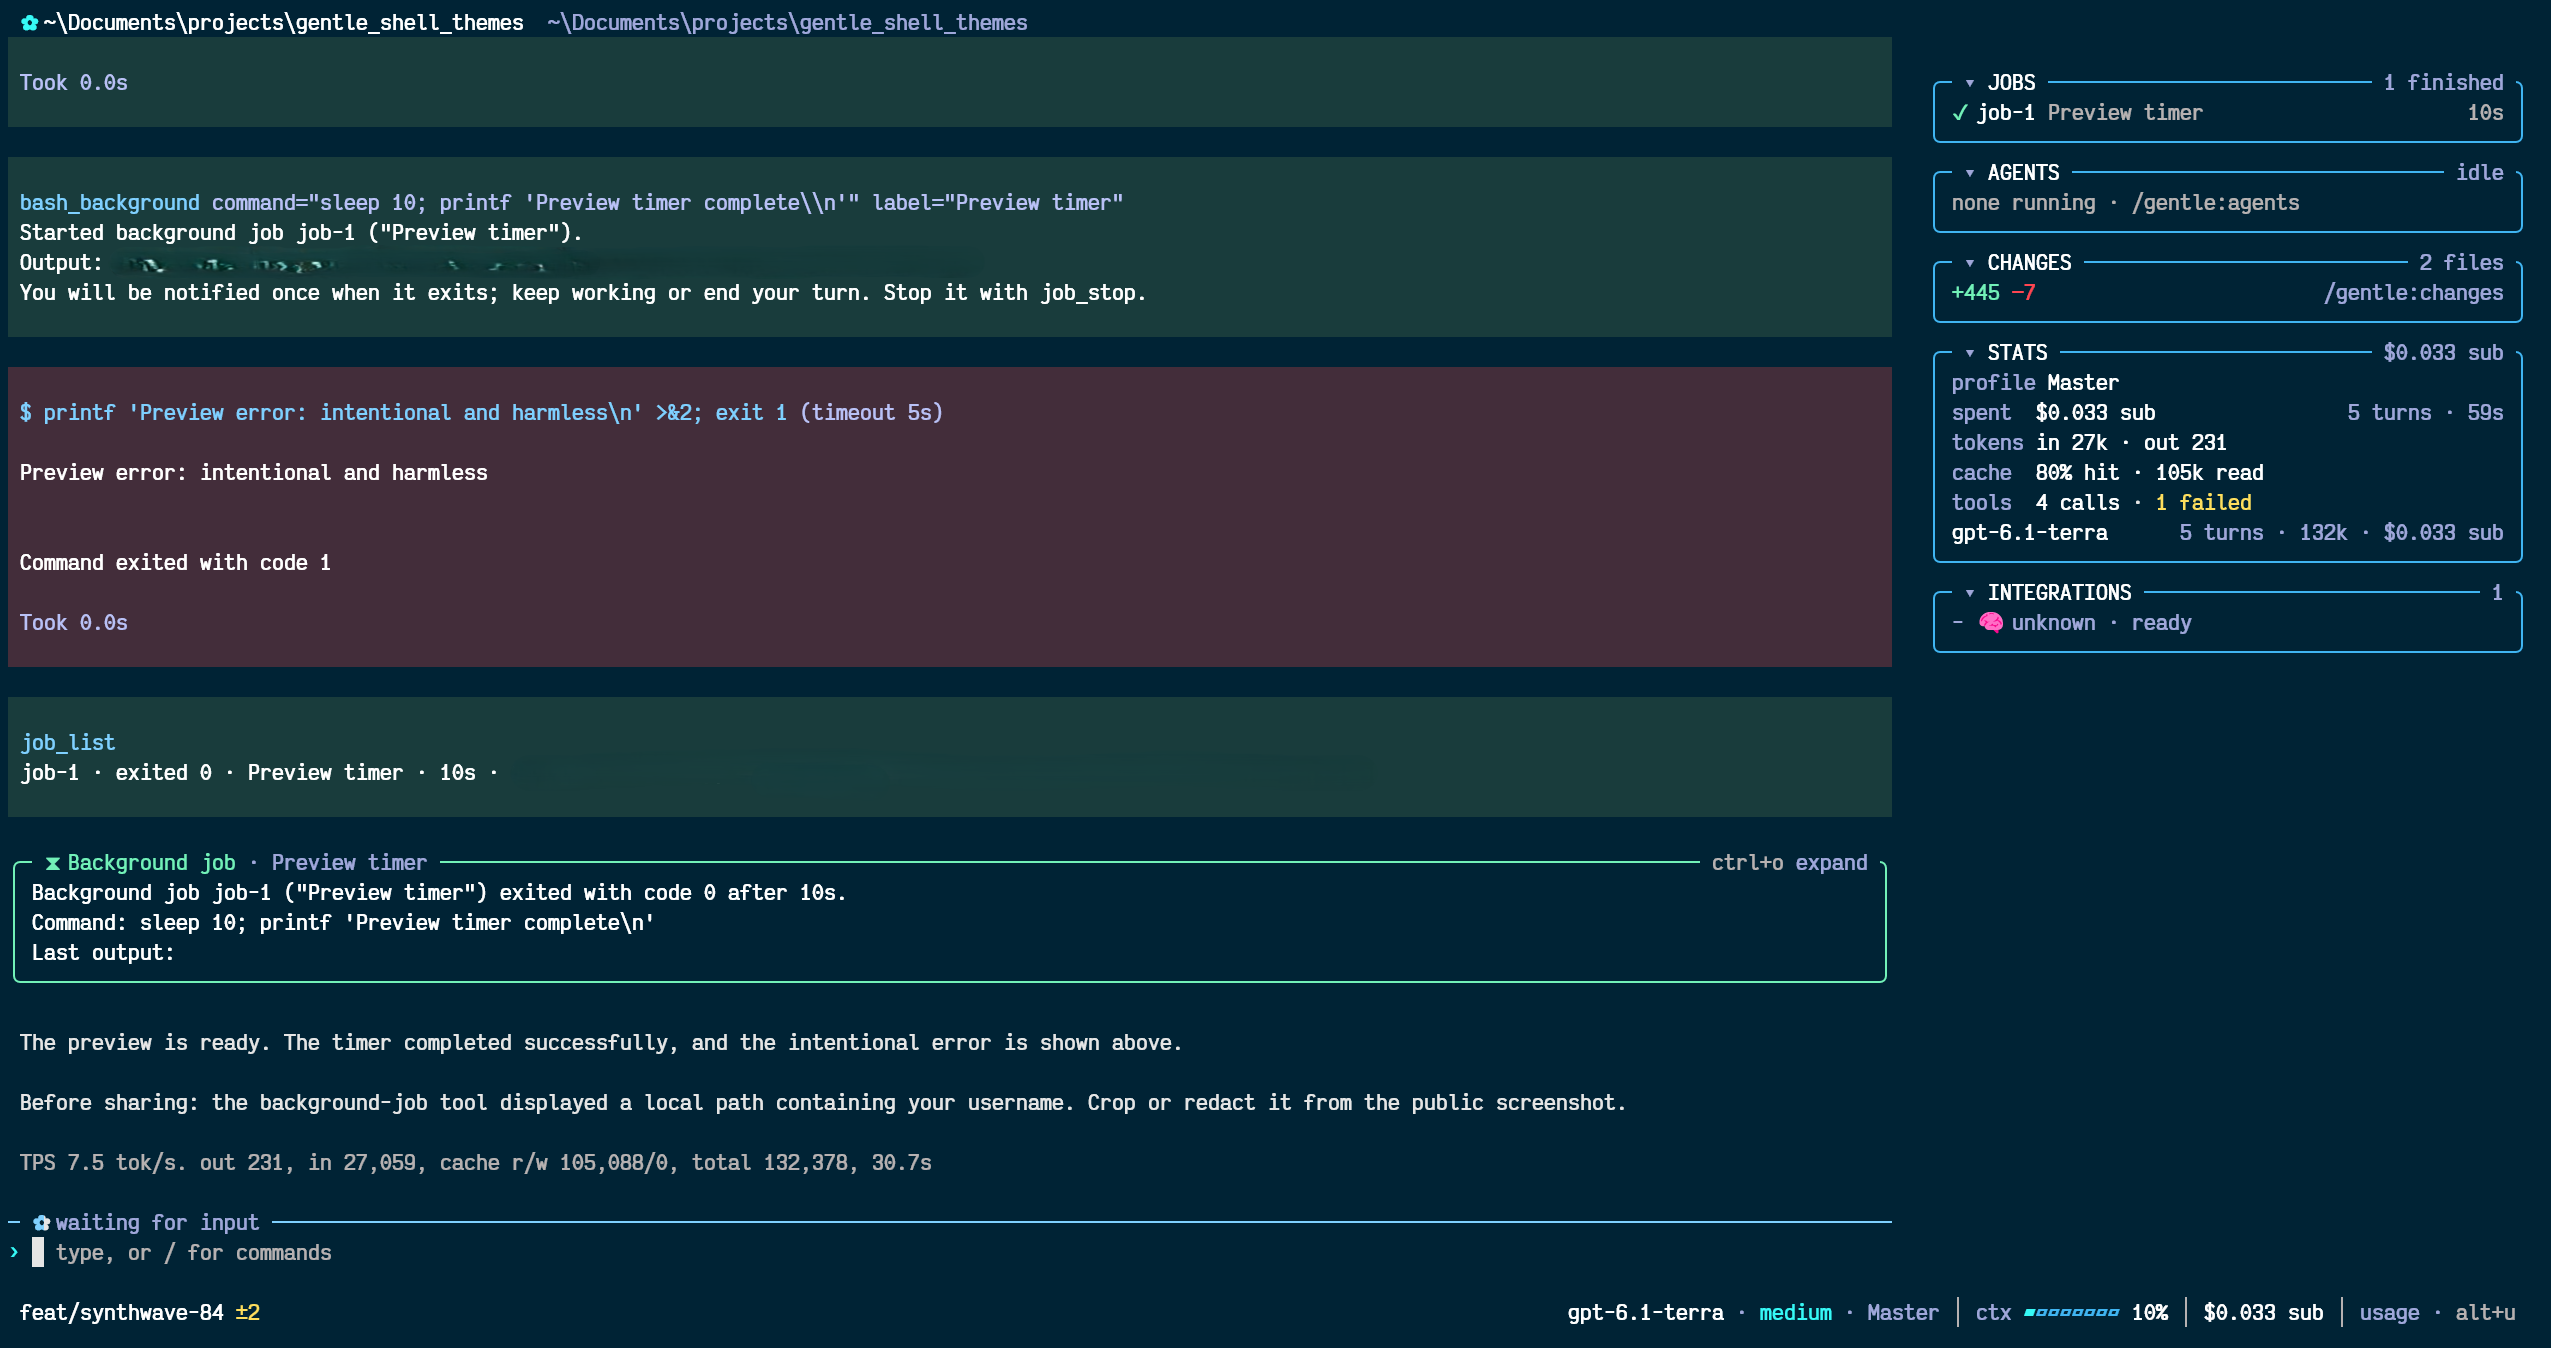
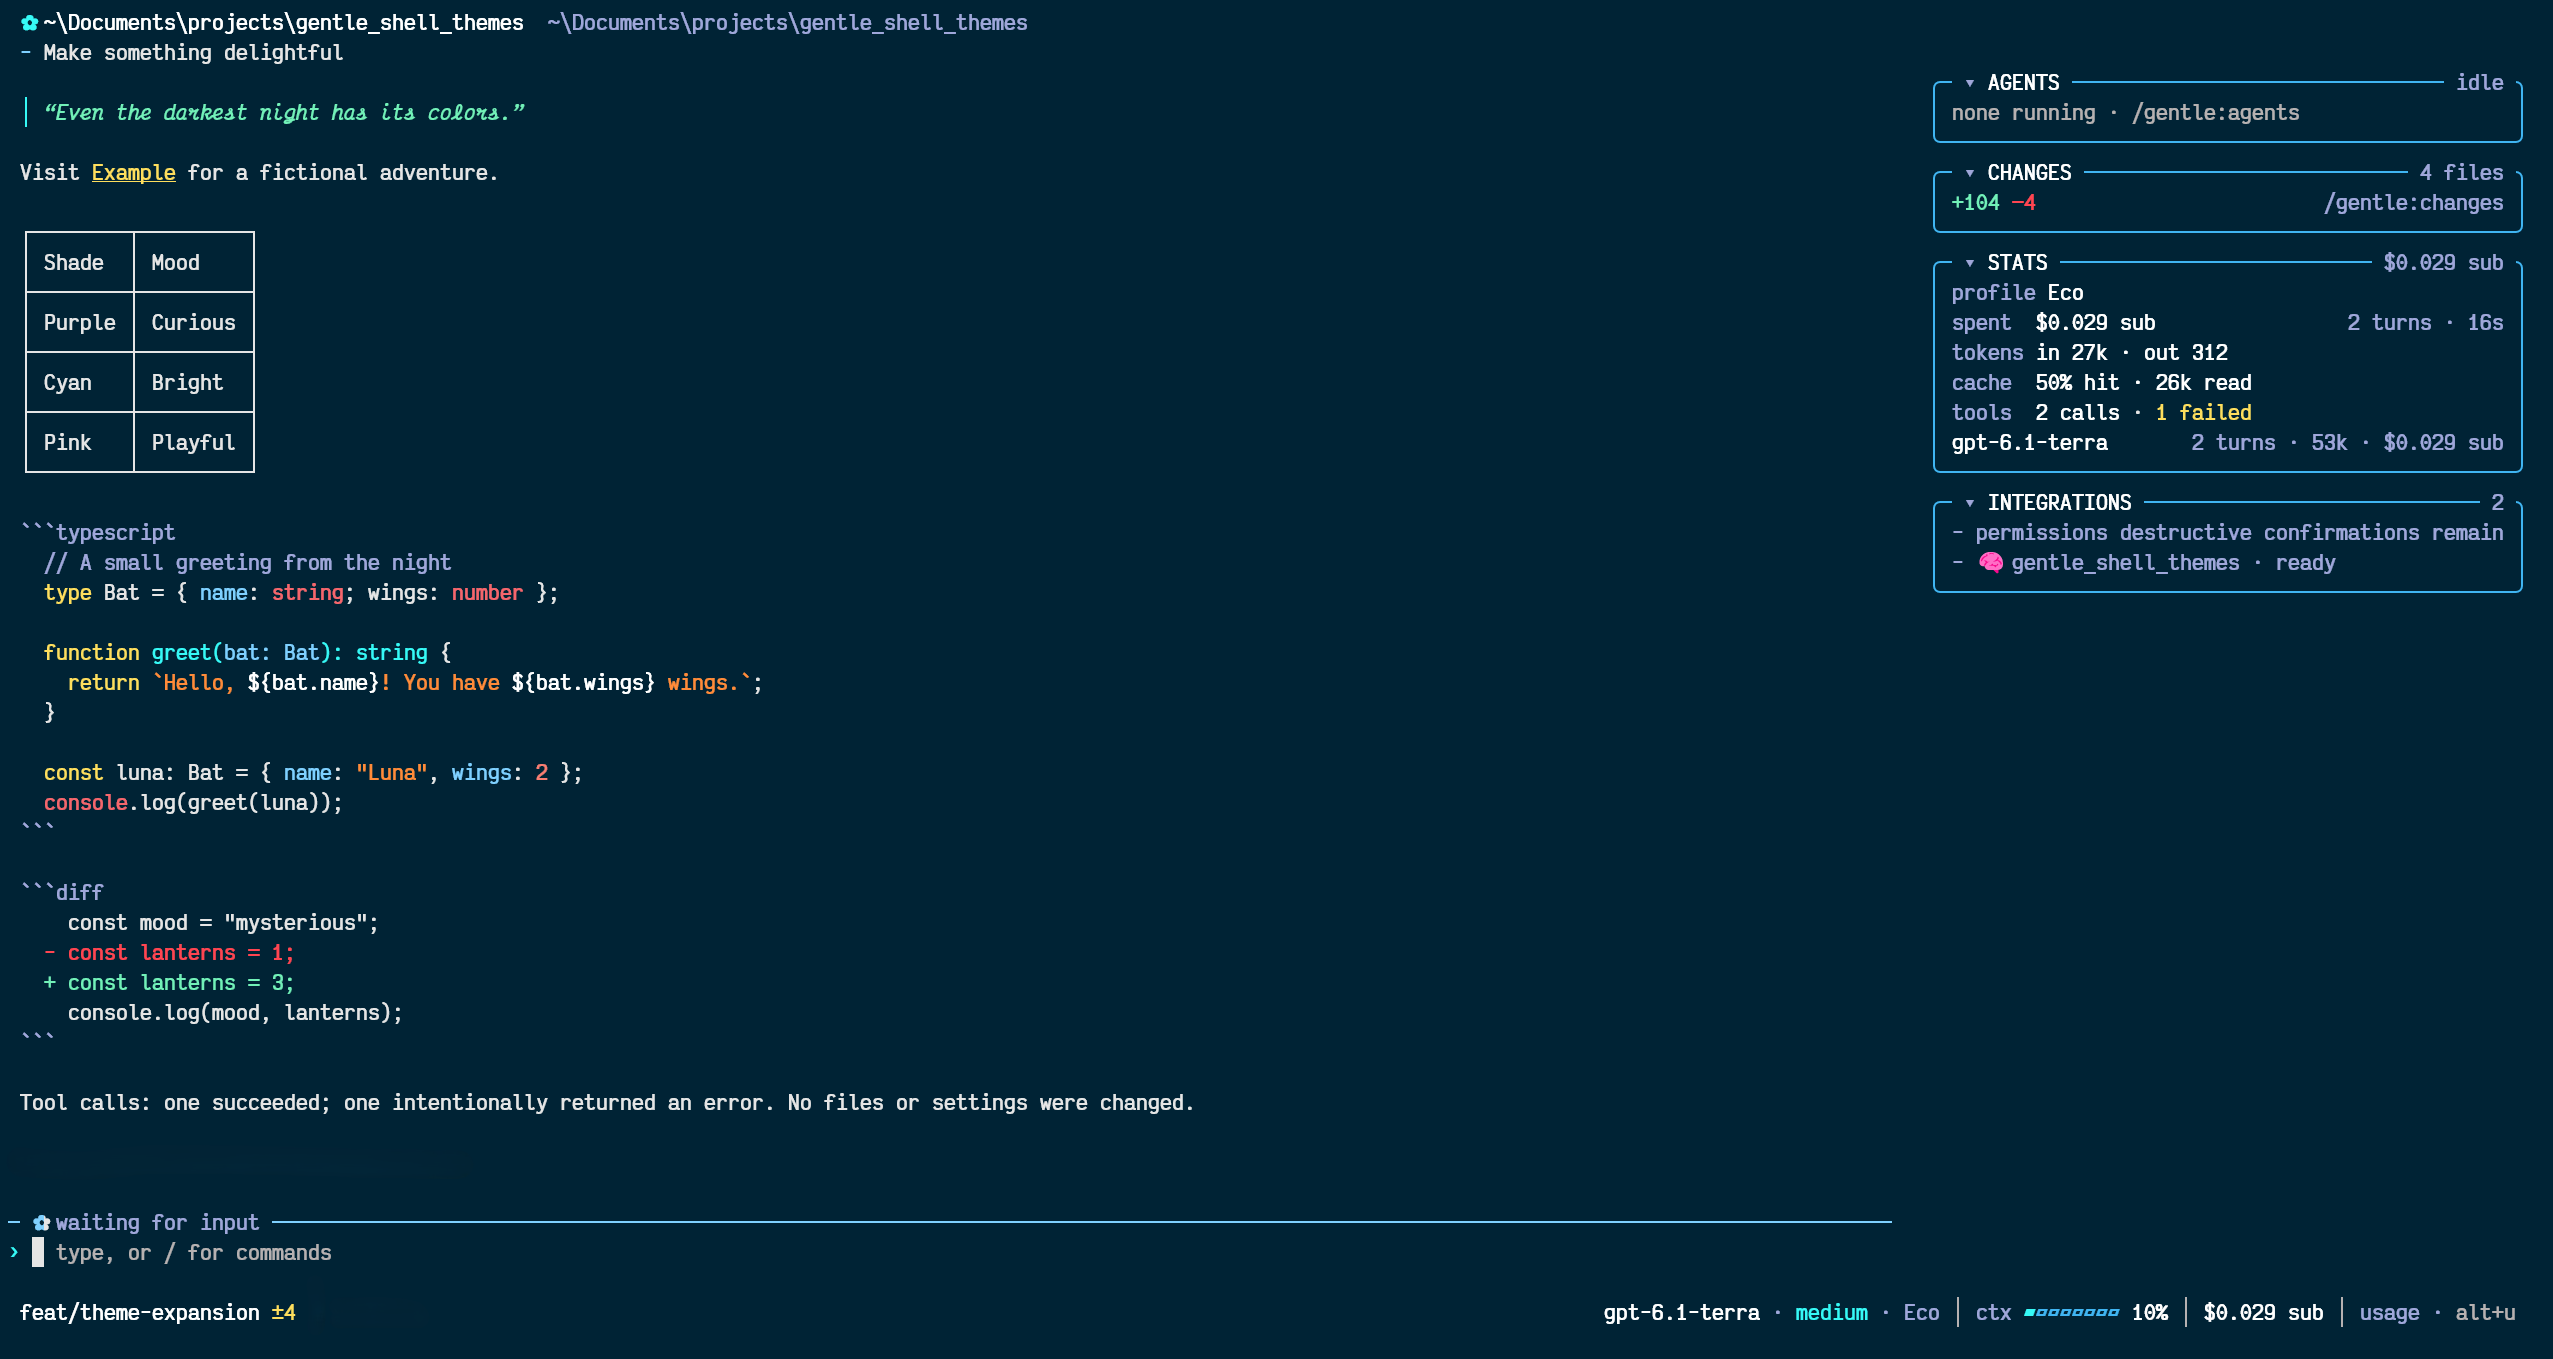
feat(themes): add Dracula theme

diff --git a/README.md b/README.md
@@ -25,9 +25,13 @@ An unofficial collection of Pi themes for [Gentle Shell](https://github.com/Gent
 
 ![SynthWave '84 Blues theme in Gentle Shell](images/synthwave-84-blues.png)
 
+### Dracula - unofficial Gentle Shell adaptation
+
+![Dracula theme in Gentle Shell](images/dracula.png)
+
 ## Install and use a theme
 
-You need Git and an existing Gentle Shell installation. You can install `synthwave-84`, `synthwave-84-blues`, or both; the themes can coexist.
+You need Git and an existing Gentle Shell installation. Browse the previews above and the JSON files in `themes/` to choose the themes you want; they can coexist.
 
 ### 1. Clone the repository
 
@@ -52,13 +56,13 @@ The output includes a mode and a path, for example `isolated <agent-dir>`. Copy 
 
 Open the path reported by `gentle-shell home` in your file manager. Open the `themes` folder inside it, or create it if it does not exist. You may need to show hidden folders in your file manager.
 
-From the cloned repository's `themes` folder, copy either or both theme files into the agent home's `themes` folder, depending on which themes you want to use.
+From the cloned repository's `themes` folder, copy the theme files you want to use into the agent home's `themes` folder.
 
 If a file with the same name already exists in the destination, inspect and back it up before replacing it. This does not edit `settings.json`; the repository copy remains the source of truth.
 
 ### 4. Select the theme
 
-Open Gentle Shell and choose `synthwave-84` or `synthwave-84-blues` through `/gentle:customize` or Pi's `/settings` theme selector. If a newly added theme is not listed, run `/reload` or restart Gentle Shell. To return to your previous theme, select it through the same interface.
+Open Gentle Shell and choose an installed theme through `/gentle:customize` or Pi's `/settings` theme selector. If a newly added theme is not listed, run `/reload` or restart Gentle Shell. To return to your previous theme, select it through the same interface.
 
 ### Update or recover
 
@@ -72,8 +76,9 @@ To reproduce the contrast shown in the previews, configure your terminal profile
 | ------------------- | ------------------- |
 | SynthWave '84       | `#262335`           |
 | SynthWave '84 Blues | `#002335`           |
+| Dracula             | `#282A36`           |
 
-The previews also use `#E5E5E5` as the terminal foreground (rather than pure white) and the [Victor Mono](https://rubjo.github.io/victor-mono/) font. These settings are optional; your terminal's foreground can affect text that uses its default color.
+For the SynthWave previews, the terminal foreground is `#E5E5E5` (rather than pure white). The [Victor Mono](https://rubjo.github.io/victor-mono/) font is also an optional choice. Your terminal's foreground can affect text that uses its default color.
 
 **In Windows Terminal**, set the background and foreground colors in the selected profile's color scheme. Optionally, configure the profile's `font` object to enable font ligatures. The following example uses Victor Mono; other fonts with ligature support, such as Fira Code, can also be used by changing `face`:
 
@@ -100,8 +105,9 @@ These themes are unofficial adaptations of:
 
 - [SynthWave '84](https://github.com/robb0wen/synthwave-vscode), created by Robb Owen. Its [MIT notice](LICENSES/synthwave-84-MIT.txt) is preserved here.
 - [SynthWave '84 Blues](https://github.com/sabrsorensen/synthwave-blues-vscode-theme), adapted by sabrsorensen from SynthWave '84. Its [MIT notice](LICENSES/synthwave-84-blues-MIT.txt) is preserved here.
+- Dracula, created by Zeno Rocha and maintained by the Dracula community: an unofficial adaptation of the [open-source VS Code theme source](https://github.com/dracula/visual-studio-code/blob/b50e62e320906d5f57a8bf05fd6ddf23b890d6dd/src/dracula.yml) at commit `b50e62e320906d5f57a8bf05fd6ddf23b890d6dd`. Its [MIT notice](LICENSES/dracula-MIT.txt) is preserved here. Message and tool-state backgrounds are adapted for Pi rather than copied from the source.
 
-This project is not affiliated with or endorsed by the original authors or the Gentle Shell project.
+This project is not affiliated with or endorsed by the original authors or the [Gentle Shell](https://github.com/Gentleman-Programming/gentle-shell) project.
 
 ## License
 
